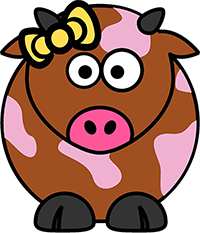
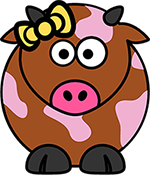
feat(home) : Layout of home page
* Simple layout for the homepage of the application

* Image, header, and a search bar are included

* Basic tests for the modeling

diff --git a/src/app/home/home.component.spec.ts b/src/app/home/home.component.spec.ts
@@ -1,13 +1,27 @@
 /* tslint:disable:no-unused-variable */
 
 import { TestBed, async } from '@angular/core/testing';
+
+import { Component } from '@angular/core';
+
 import { HomeComponent } from './home.component';
+
+/**
+ * Stub component for SearchBarComponent
+ */
+@Component({
+	selector: 'home-search-bar',
+	template: ''
+})
+class SearchBarStubComponent { }
+
 
 describe('Component: Home', () => {
 	beforeEach(() => {
 		TestBed.configureTestingModule({
 			declarations: [
-				HomeComponent
+				HomeComponent,
+				SearchBarStubComponent
 			],
 		});
 	});
@@ -34,7 +48,7 @@ describe('Component: Home', () => {
 	it('should have a correct headerImageUrl property', () => {
 		let fixture = TestBed.createComponent(HomeComponent);
 		let component = fixture.debugElement.componentInstance;
-		expect(component.headerImageUrl).toBe('assets/images/cow_200x233.png');
+		expect(component.headerImageUrl).toBe('assets/images/cow_150x175.png');
 	});
 
 	it('should render header cow image correctly', async(() => {
@@ -50,5 +64,13 @@ describe('Component: Home', () => {
 
 		expect(relativePath).toBe(component.headerImageUrl);
 		expect(image.alt).toBe('Loklak Cow');	// Correct alt text 'Loklak Cow' must be present.
+	}));
+
+	it('should have a home-search-bar component', async(() => {
+		let fixture = TestBed.createComponent(HomeComponent);
+		fixture.detectChanges();
+		let component = fixture.debugElement.componentInstance;
+		let compiled = fixture.debugElement.nativeElement;
+		expect(compiled.querySelector('div.wrapper home-search-bar')).toBeTruthy();
 	}));
 });

diff --git a/src/app/home/search-bar/search-bar.component.spec.ts b/src/app/home/search-bar/search-bar.component.spec.ts
@@ -1,0 +1,47 @@
+/* tslint:disable:no-unused-variable */
+
+import { TestBed, async } from '@angular/core/testing';
+import { SearchBarComponent } from './search-bar.component';
+import { FormsModule } from '@angular/forms';
+
+describe('Component: SearchBar', () => {
+	beforeEach(() => {
+		TestBed.configureTestingModule({
+			imports: [
+				FormsModule
+			],
+			declarations: [
+				SearchBarComponent
+			]
+		});
+	});
+
+	it('should create an instance', () => {
+		let fixture = TestBed.createComponent(SearchBarComponent);
+		let component = fixture.debugElement.componentInstance;
+		expect(component).toBeTruthy();
+	});
+
+	it('should have a searchModel and submitted properties', () => {
+		let fixture = TestBed.createComponent(SearchBarComponent);
+		let component = fixture.debugElement.componentInstance;
+
+		expect(component.searchModel).not.toBeUndefined();
+		expect(component.submitted).not.toBeUndefined();
+	});
+
+	it('should render an input element with proper label and semantics.', async(() => {
+		let fixture = TestBed.createComponent(SearchBarComponent);
+		fixture.detectChanges();
+		let de = fixture.debugElement;
+		let comp = de.componentInstance;
+		let el = de.nativeElement;
+
+		let inpEl = el.querySelector('input#search');
+		let inpLabel = el.querySelector('label[for="search"]');
+
+		expect(inpEl).toBeTruthy();
+		expect(inpLabel).toBeTruthy();
+		expect(inpLabel.textContent).not.toBe('');
+	}));
+});

diff --git a/src/app/home/home.component.scss b/src/app/home/home.component.scss
@@ -1,19 +1,37 @@
 :host{
 	width: 100%;
 	height: 100%;
+	min-height: 100vh;
 	display: flex;
 	justify-content: space-around;
 	align-items: center;
 }
 
-div.wrapper{
+div.wrapper {
 	display: flex;
 	flex-direction: column;
 	justify-content: space-around;
 	align-items: center;
+	width: 500px;
+	margin-top: -10vh;
 
-	h1{
+	h1 {
 		font-weight: 300;
 		text-align: center;
+		font-size: 2.5em;
+		margin: 20px 0px;
+	}
+
+	h5 {
+		text-align: center;
+	}
+
+	@media (max-height: 500px) and (orientation: landscape){
+		margin-top: 0px;
+
+		img {
+			width: 120px;
+			height: auto;
+		}
 	}
 }

diff --git a/src/app/home/search-bar/search-bar.component.html b/src/app/home/search-bar/search-bar.component.html
@@ -1,0 +1,15 @@
+<div class="form-group search-form">
+	<div class="input-group">
+		<label for="search">Search On Loklak.</label>
+
+		<input type="text" class="form-control" id="search" required
+						[(ngModel)]="searchModel.query" name="query" placeholder="I'm feeling Awsome!">
+
+		<span class="input-group-btn">
+			<button class="btn btn-default" role="button" type="button"
+							aria-roledescription="Search the web using loklak search.">
+				<span class="glyphicon glyphicon-search" aria-hidden="true"></span>
+			</button>
+		</span>
+	</div>
+</div>

diff --git a/src/app/home/home.module.ts b/src/app/home/home.module.ts
@@ -1,18 +1,22 @@
 import { NgModule } from '@angular/core';
 import { CommonModule } from '@angular/common';
+import { FormsModule } from '@angular/forms';
 
 import { LoklakHomeRoutingModule } from './home-routing.module';
 
 import { HomeComponent } from './home.component';
+import { SearchBarComponent } from './search-bar/search-bar.component';
 
 @NgModule({
 	imports: [
 		CommonModule,
+		FormsModule,
 
 		LoklakHomeRoutingModule
 	],
 	declarations: [
-		HomeComponent
+		HomeComponent,
+		SearchBarComponent
 	],
 	exports: []
 })

diff --git a/src/app/home/search-bar/search-bar.component.ts b/src/app/home/search-bar/search-bar.component.ts
@@ -1,0 +1,21 @@
+import { Component, OnInit } from '@angular/core';
+import { SearchModel } from '../../shared/classes';
+
+@Component({
+	selector: 'home-search-bar',
+	templateUrl: './search-bar.component.html',
+	styleUrls: ['./search-bar.component.scss']
+})
+export class SearchBarComponent implements OnInit {
+	private searchModel = new SearchModel();
+	public submitted: boolean = false;
+
+	constructor() { }
+
+	ngOnInit() {
+	}
+
+	get queryJSON() {
+		return JSON.stringify(this.searchModel);
+	}
+}

diff --git a/src/app/home/search-bar/search-bar.component.scss b/src/app/home/search-bar/search-bar.component.scss
@@ -1,0 +1,33 @@
+:host{
+	width: 100%;
+}
+
+div.search-form {
+	div.input-group{
+		width: 100%;
+		padding: 10px;
+
+		label {
+			visibility: hidden;
+			display: none;
+		}
+
+		input {
+			font-size: larger;
+		}
+
+		input,
+		span.input-group-btn button {
+			height: 40px;
+			background: transparent;
+		}
+
+		input:focus{
+			background: white;
+		}
+
+		span.input-group-btn button:focus~input{
+			background: white;
+		}
+	}
+}

diff --git a/src/app/app.module.ts b/src/app/app.module.ts
@@ -1,6 +1,5 @@
 import { BrowserModule } from '@angular/platform-browser';
 import { NgModule } from '@angular/core';
-import { FormsModule } from '@angular/forms';
 import { HttpModule } from '@angular/http';
 
 import { LoklakAppRoutingModule } from './app-routing.module';
@@ -15,7 +14,6 @@ import { HomeModule } from './home/home.module';
 	],
 	imports: [
 		BrowserModule,
-		FormsModule,
 		HttpModule,
 
 		LoklakAppRoutingModule,

diff --git a/src/app/home/home.component.ts b/src/app/home/home.component.ts
@@ -7,7 +7,7 @@ import { Component, OnInit } from '@angular/core';
 })
 export class HomeComponent implements OnInit {
 	private header: string = 'Loklak Search!';
-	private headerImageUrl: string = 'assets/images/cow_200x233.png';
+	private headerImageUrl: string = 'assets/images/cow_150x175.png';
 
 	constructor() { }
 

diff --git a/src/app/home/home.component.html b/src/app/home/home.component.html
@@ -1,4 +1,6 @@
 <div class="wrapper">
-	<img src="{{headerImageUrl}}" alt="Loklak Cow" width="200" height="233">
+	<img src="{{headerImageUrl}}" alt="Loklak Cow" width="150" height="175">
 	<h1>{{header}}</h1>
+	<home-search-bar></home-search-bar>
+	<h5>Distributed Social Media Message Search Engine</h5>
 </div>

diff --git a/src/app/shared/classes/search/search-model.spec.ts b/src/app/shared/classes/search/search-model.spec.ts
@@ -1,0 +1,10 @@
+/* tslint:disable:no-unused-variable */
+
+import { async, inject } from '@angular/core/testing';
+import { SearchModel } from './search-model';
+
+describe('SearchModel', () => {
+	it('should create an instance', () => {
+		expect(new SearchModel()).toBeTruthy();
+	});
+});

diff --git a/src/styles.scss b/src/styles.scss
@@ -4,7 +4,7 @@ body{
 	margin: 0;
 	padding: 0;
 	width: 100vw;
-	height: 100vh;
+	min-height: 100vh;
 	background: #fafafa;
 	font-family: Roboto, Arial, Helvetica, sans-serif;
 	font-family: Iconsolata, monospace;
